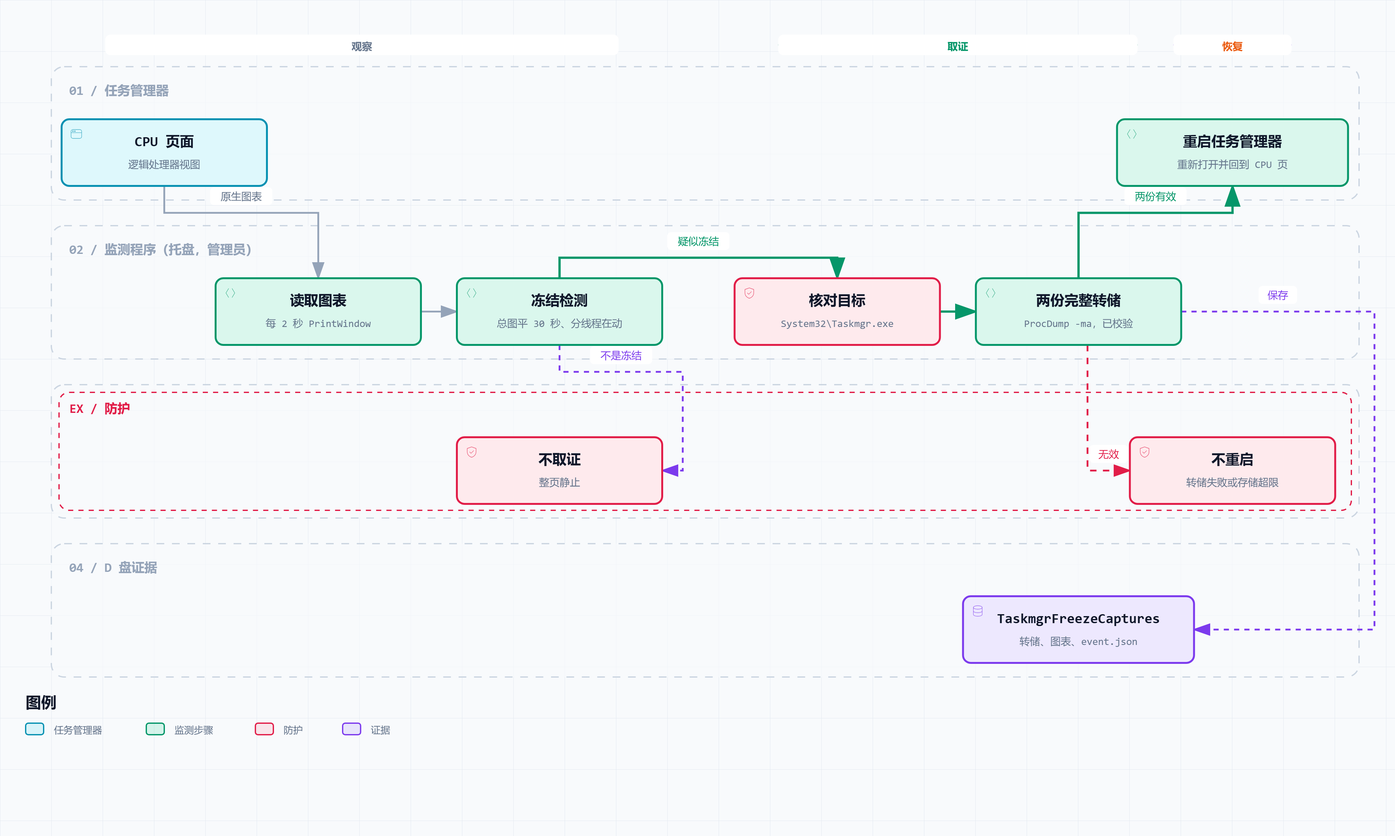
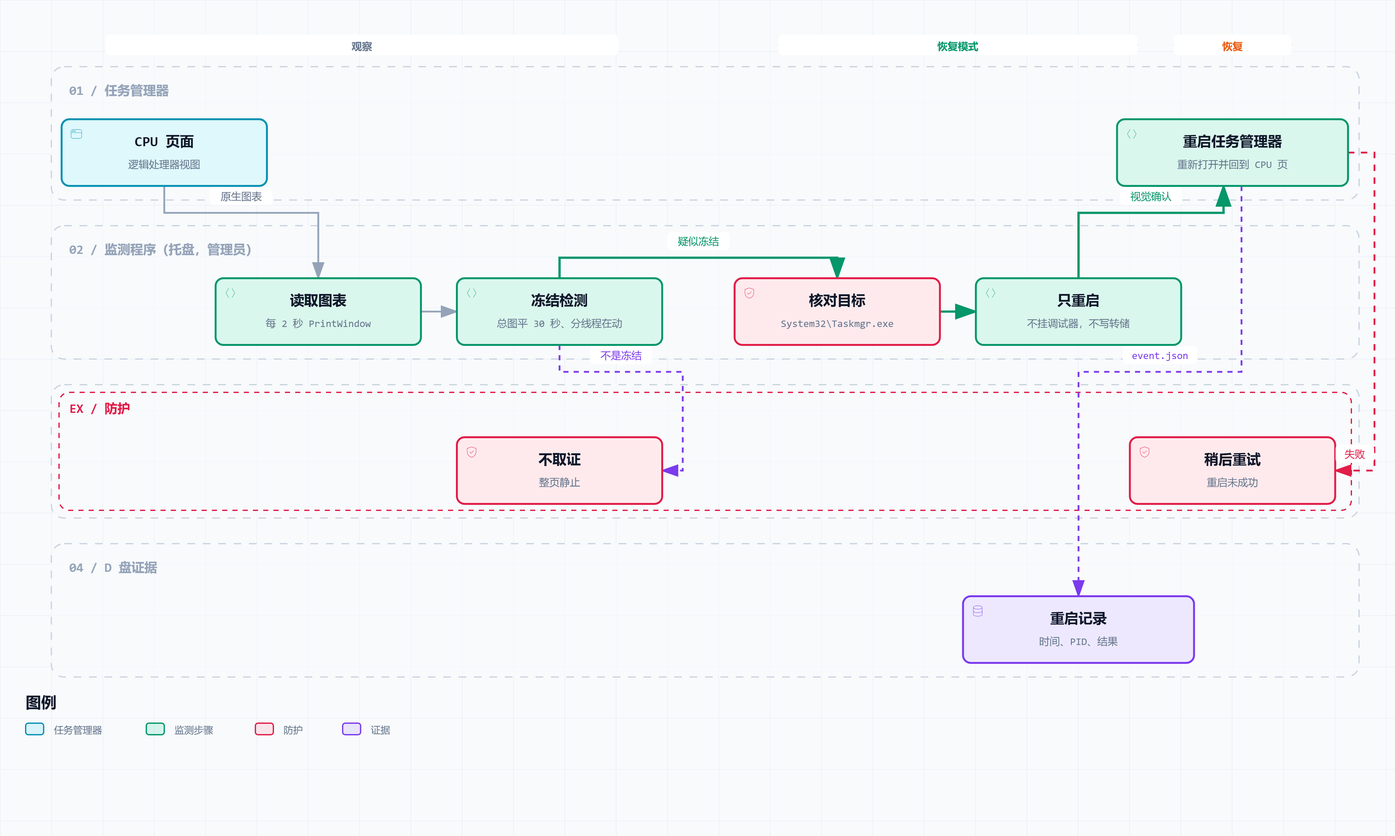
feat: rank thread bursts and close live freeze investigation
Replace broad ETW candidates with a bounded 10 ms Top 3 thread-start ranking. Document the evidence closeout and restart-only daily workflow.

diff --git a/tools/correlate-process-trace.py b/tools/correlate-process-trace.py
@@ -1,8 +1,10 @@
-"""List temporal candidates, never a verdict, using raw ETW QPC and query receipts."""
+"""Rank the top three thread creators before an abnormal query receipt (not causality)."""
 import argparse
+import bisect
 import collections
 import csv
 import json
+import math
 import re
 import xml.etree.ElementTree as ET
 from datetime import datetime, timezone
@@ -107,15 +109,21 @@ def identities(events,baseline,header):
     return events
 
 
-def correlate(folder,margin_ms=100):
+def correlate(folder,lookback_ms=10,output=None):
+    if not math.isfinite(lookback_ms) or not 0<lookback_ms<=10:
+        raise ValueError('lookback-ms must be in (0,10]')
+    folder = Path(folder)
+    output = Path(output) if output is not None else folder
     trace = folder/'process-trace'
     events,header,errors = decode(trace/'events.xml')
     origin = json.loads((folder/'origin.json').read_text(encoding='utf-8'))
-    if origin.get('qpc_frequency')!=header['PerfFreq']:
+    if header['PerfFreq']<=0 or origin.get('qpc_frequency')!=header['PerfFreq']:
         raise ValueError('query/ETW clock frequencies do not match')
     session = json.loads((trace/'session.json').read_text(encoding='utf-8'))
     if session.get('status')!='stopped' or session.get('decode_exit')!=0:
         errors.append('ETW stop/decode not verified')
+    if session.get('qpc_frequency')!=header['PerfFreq']:
+        errors.append('session/ETW clock frequencies do not match')
     baseline = json.loads((trace/'baseline.json').read_text(encoding='utf-8-sig'))
     # With loss/overwriting/decode gaps, a stale baseline PID may appear alive
     # after unobserved reuse. Do not emit named candidates from incomplete data.
@@ -123,45 +131,70 @@ def correlate(folder,margin_ms=100):
         events = identities(events,baseline,header)
     queries_path = folder/'query-trace.jsonl'
     queries = [json.loads(s) for s in queries_path.read_text(encoding='utf-8').splitlines()] if queries_path.exists() else []
-    rows,windows = [],[]
+    rows,windows,skipped = [],[],[]
     freq = header['PerfFreq']
-    margin = int(freq*margin_ms/1000)
+    lookback = int(freq*lookback_ms/1000)
+    if lookback<1:
+        raise ValueError('lookback is below one QPC tick')
+    # Thread creation, not net count or every process event, is the ranking key.
+    starts = [e for e in events if e['kind']=='thread_start']
+    clocks = [e['qpc'] for e in starts]
     for q in queries:
         if errors:
             break
         begin,end = q.get('entry_received_qpc'),q.get('return_received_qpc')
-        if not begin or not end or not q.get('query','').startswith(origin['instance']+':'):
-            errors.append('query missing clock or instance identity')
+        calls = q.get('calls',[])
+        # The final NtQSI return marker is closer to the query than the wrapper
+        # return. Do not silently fall back to wall time or claim target timing.
+        anchor = calls[-1].get('received_qpc') if calls else None
+        reason = None
+        if not all(isinstance(t,int) and t>0 for t in (begin,anchor,end)) or not q.get('query','').startswith(origin['instance']+':'):
+            reason = 'query missing QPC receipt or instance identity'
+        elif not begin<=anchor<=end:
+            reason = 'query receipt clocks out of order'
+        elif min(begin,anchor-lookback)<session['baseline_end_qpc'] or end>session['stopped_qpc']:
+            reason = 'query/lookback outside baseline-to-stop coverage'
+        if reason:
+            skipped.append({'query':q.get('query'),'reason':reason})
             continue
-        if begin<session['baseline_end_qpc'] or end>session['stopped_qpc']:
-            errors.append('query outside baseline-to-stop coverage')
-            continue
-        selected = [e for e in events if begin-margin<=e['qpc']<=end+margin]
-        windows.append({'query':q['query'],'kind':q['kind'],'receipt_begin_qpc':begin,'receipt_end_qpc':end,
-                        'margin_ms':margin_ms,'events':selected,'calls':q['calls']})
+        lower = anchor-lookback
+        selected = starts[bisect.bisect_left(clocks,lower):bisect.bisect_right(clocks,anchor)]
         groups = collections.defaultdict(list)
         for e in selected:
-            groups[e['identity']].append(e)
-        for identity,group in groups.items():
+            # Unknown lifetimes must not collapse reused PIDs into one creator.
+            if e['process'] is not None:
+                groups[(e['identity'],e['process'].get('image') or 'unknown')].append(e)
+        ranked = sorted(groups.items(),key=lambda pair:(-len(pair[1]),pair[0]))[:3]
+        top = []
+        for rank,((identity,image),group) in enumerate(ranked,1):
             p = group[0]['process'] or {}
-            counts = collections.Counter(e['kind'] for e in group)
-            inside = sum(begin<=e['qpc']<=end for e in group)
-            rows.append({'query':q['query'],'query_kind':q['kind'],'identity':identity,
-                         'image':p.get('image') or 'unknown','parent_pid':p.get('parent_pid'),
-                         'process_start':counts['process_start'],'process_stop':counts['process_stop'],
-                         'thread_start':counts['thread_start'],'thread_stop':counts['thread_stop'],
-                         'inside_receipt_window':inside,'margin_only':len(group)-inside,
-                         'net_threads':counts['thread_start']-counts['thread_stop'],
-                         'assessment':'temporal candidate only'})
+            row = {'query':q['query'],'query_kind':q['kind'],'rank':rank,'identity':identity,
+                   'pid':group[0]['pid'],'create_time':p['created'],'image':image,
+                   'parent_pid':p.get('parent_pid'),'thread_start_count':len(group),
+                   'thread_starts_per_second':len(group)*freq/lookback,
+                   'lookback_ms':lookback*1000/freq,'window_begin_qpc':lower,'anchor_qpc':anchor,
+                   'first_start_qpc':group[0]['qpc'],'last_start_qpc':group[-1]['qpc'],
+                   'assessment':'temporal ranking only; not a fault threshold'}
+            rows.append(row)
+            top.append(row)
+        windows.append({'query':q['query'],'kind':q['kind'],'receipt_begin_qpc':begin,'receipt_end_qpc':end,
+                        'window_begin_qpc':lower,'anchor_qpc':anchor,'lookback_ms':lookback*1000/freq,
+                        'thread_start_count':len(selected),
+                        'unresolved_thread_starts':sum(e['process'] is None for e in selected),
+                        'ranked_processes_available':len(groups),'top':top,'calls':calls})
     result = {'instance':origin['instance'],'etw_events':len(events),'queries':len(windows),
-              'abnormal_queries_seen':len(queries),
+              'abnormal_queries_seen':len(queries),'query_kinds':dict(collections.Counter(q['kind'] for q in queries)),
+              'lookback_ms':lookback_ms,'top_limit':3,'ranking_rows':len(rows),'skipped_queries':skipped,
               'errors':sorted(set(errors)),'trace_header':header,'attribution':'unproven',
-              'clock_limit':'Query times are debugger-host receipts; latency has no measured upper bound. Margin is a search heuristic, not an error bound. Coincidence and net growth do not prove kernel buffer contribution.',
+              'anchor':'final NtQSI return marker received by debugger host',
+              'clock_limit':'Query times are debugger-host receipts; latency has no measured upper bound. The inclusive lookback window is a search heuristic, not microsecond target timing. Thread starts do not prove snapshot growth, kernel buffer contribution or a universal churn threshold.',
               'windows':windows}
-    (folder/'process-correlation.json').write_text(json.dumps(result,indent=2)+'\n',encoding='utf-8')
-    fields = ['query','query_kind','identity','image','parent_pid','process_start','process_stop',
-              'thread_start','thread_stop','inside_receipt_window','margin_only','net_threads','assessment']
-    with (folder/'process-candidates.tsv').open('w',encoding='utf-8',newline='') as f:
+    output.mkdir(parents=True,exist_ok=True)
+    (output/'thread-top-delta.json').write_text(json.dumps(result,indent=2)+'\n',encoding='utf-8')
+    fields = ['query','query_kind','rank','identity','pid','create_time','image','parent_pid',
+              'thread_start_count','thread_starts_per_second','lookback_ms','window_begin_qpc','anchor_qpc',
+              'first_start_qpc','last_start_qpc','assessment']
+    with (output/'thread-top-delta.tsv').open('w',encoding='utf-8',newline='') as f:
         writer = csv.DictWriter(f,fields,delimiter='\t')
         writer.writeheader()
         writer.writerows(rows)
@@ -171,8 +204,12 @@ def correlate(folder,margin_ms=100):
 if __name__=='__main__':
     parser = argparse.ArgumentParser(description=__doc__)
     parser.add_argument('folder',type=Path)
-    parser.add_argument('--margin-ms',type=float,default=100)
+    parser.add_argument('--lookback-ms',type=float,default=10,help='inclusive lookback before final NtQSI receipt, (0,10] ms')
+    parser.add_argument('--output',type=Path,help='write new Top Delta reports here, preserving historical evidence')
     args = parser.parse_args()
-    if not 0<=args.margin_ms<=1000:
-        parser.error('margin-ms must be in [0,1000]')
-    print(json.dumps(correlate(args.folder,args.margin_ms),indent=2))
+    if not math.isfinite(args.lookback_ms) or not 0<args.lookback_ms<=10:
+        parser.error('lookback-ms must be in (0,10]')
+    summary = correlate(args.folder,args.lookback_ms,args.output)
+    print(json.dumps(summary,indent=2))
+    if summary['errors'] or summary['skipped_queries']:
+        raise SystemExit(2)

diff --git a/tests/test_process_trace.py b/tests/test_process_trace.py
@@ -67,29 +67,98 @@ class ProcessTraceTests(unittest.TestCase):
         self.assertIn('ETW lost events or buffers',errors)
         self.assertIn('circular trace may have overwritten earlier buffers',errors)
 
-    def test_margin_is_not_inside_window_or_attribution(self):
+    def rank_fixture(self, folder):
+        trace=folder/'process-trace';trace.mkdir()
+        (folder/'origin.json').write_text(json.dumps({'instance':'I','qpc_frequency':1000}))
+        (trace/'session.json').write_text(json.dumps({'status':'stopped','decode_exit':0,'qpc_frequency':1000,
+            'baseline_end_qpc':1,'stopped_qpc':1000}))
+        (trace/'baseline.json').write_text('[]')
+        query={'query':'I:Q1','kind':'exhausted','calls':[{'received_qpc':110}],
+               'entry_received_qpc':95,'return_received_qpc':120}
+        (folder/'query-trace.jsonl').write_text(json.dumps(query)+'\n')
+        return trace,query
+
+    def ranked_event(self,pid,q,created=1,kind='thread_start'):
+        return {'qpc':q,'kind':kind,'pid':pid,'identity':f'{pid}:{created}',
+                'process':{'created':created,'image':f'{pid}.exe','parent_pid':7}}
+
+    def test_top_three_starts_in_inclusive_lookback_not_after_or_net_growth(self):
         with tempfile.TemporaryDirectory() as directory:
-            folder=Path(directory); trace=folder/'process-trace';trace.mkdir()
-            (folder/'origin.json').write_text(json.dumps({'instance':'I','qpc_frequency':1000}))
-            (trace/'session.json').write_text(json.dumps({'status':'stopped','decode_exit':0,'baseline_end_qpc':0,'stopped_qpc':1000}))
-            (trace/'baseline.json').write_text('[]')
-            (folder/'query-trace.jsonl').write_text(json.dumps({'query':'I:Q1','kind':'exhausted','calls':[],
-                'entry_received_qpc':100,'return_received_qpc':120})+'\n')
-            event={'qpc':95,'kind':'thread_start','pid':42,'identity':'42:unresolved','process':None}
-            h={'PerfFreq':1000}
-            with patch.object(C,'decode',return_value=([event],h,[])),patch.object(C,'identities',side_effect=lambda e,*_:e):
-                result=C.correlate(folder,10)
+            folder=Path(directory);self.rank_fixture(folder)
+            events=[self.ranked_event(42,q) for q in (99,100,105,110,111)]
+            events += [self.ranked_event(42,107,kind='thread_stop')]
+            events += [self.ranked_event(pid,106) for pid in (2,2,3,3,4,4)]
+            events += [self.ranked_event(5,107,kind='process_start')]
+            unknown=self.ranked_event(9,108);unknown.update(identity='9:unresolved',process=None)
+            events.append(unknown);events.sort(key=lambda e:e['qpc'])
+            old=folder/'process-candidates.tsv';old.write_text('historical report')
+            out=folder/'new-report'
+            with patch.object(C,'decode',return_value=(events,{'PerfFreq':1000},[])), \
+                 patch.object(C,'identities',side_effect=lambda e,*_:e):
+                result=C.correlate(folder,10,out)
+            report=json.loads((out/'thread-top-delta.json').read_text())
+            window=report['windows'][0];top=window['top']
+            self.assertEqual([r['pid'] for r in top],[42,2,3])
+            self.assertEqual([r['thread_start_count'] for r in top],[3,2,2])
+            self.assertEqual(top[0]['thread_starts_per_second'],300)
+            self.assertEqual(window['unresolved_thread_starts'],1)
+            self.assertEqual(window['thread_start_count'],10)
+            self.assertEqual(window['ranked_processes_available'],4)
             self.assertEqual(result['attribution'],'unproven')
-            import csv
-            with (folder/'process-candidates.tsv').open() as f:
-                row=next(csv.DictReader(f,delimiter='\t'))
-            self.assertEqual(row['inside_receipt_window'],'0')
-            self.assertEqual(row['margin_only'],'1')
-            with patch.object(C,'decode',return_value=([event],h,['ETW lost events or buffers'])):
+            self.assertEqual(old.read_text(),'historical report')
+            self.assertFalse((folder/'thread-top-delta.json').exists())
+
+    def test_ranking_keeps_reused_pid_instances_separate(self):
+        with tempfile.TemporaryDirectory() as directory:
+            folder=Path(directory);self.rank_fixture(folder)
+            events=[self.ranked_event(42,101,1),self.ranked_event(42,109,2)]
+            with patch.object(C,'decode',return_value=(events,{'PerfFreq':1000},[])), \
+                 patch.object(C,'identities',side_effect=lambda e,*_:e):
+                C.correlate(folder)
+            report=json.loads((folder/'thread-top-delta.json').read_text())
+            self.assertEqual([r['identity'] for r in report['windows'][0]['top']],['42:1','42:2'])
+
+    def test_missing_query_clock_does_not_drop_later_valid_query(self):
+        with tempfile.TemporaryDirectory() as directory:
+            folder=Path(directory);_,query=self.rank_fixture(folder)
+            bad={**query,'query':'I:Q0','calls':[]}
+            (folder/'query-trace.jsonl').write_text(json.dumps(bad)+'\n'+json.dumps(query)+'\n')
+            with patch.object(C,'decode',return_value=([],{'PerfFreq':1000},[])), \
+                 patch.object(C,'identities',return_value=[]):
+                result=C.correlate(folder)
+            self.assertEqual(result['queries'],1)
+            self.assertEqual(result['ranking_rows'],0)
+            self.assertEqual(len(result['skipped_queries']),1)
+
+    def test_lookback_requires_full_coverage_and_valid_receipt_order(self):
+        for baseline,anchor in ((101,110),(1,94),(1,121)):
+            with self.subTest(baseline=baseline,anchor=anchor),tempfile.TemporaryDirectory() as directory:
+                folder=Path(directory);trace,query=self.rank_fixture(folder)
+                session=json.loads((trace/'session.json').read_text());session['baseline_end_qpc']=baseline
+                (trace/'session.json').write_text(json.dumps(session))
+                query['calls'][-1]['received_qpc']=anchor
+                (folder/'query-trace.jsonl').write_text(json.dumps(query)+'\n')
+                with patch.object(C,'decode',return_value=([],{'PerfFreq':1000},[])), \
+                     patch.object(C,'identities',return_value=[]):
+                    result=C.correlate(folder)
+                self.assertEqual(result['queries'],0)
+                self.assertEqual(len(result['skipped_queries']),1)
+
+    def test_loss_suppresses_all_named_rankings(self):
+        with tempfile.TemporaryDirectory() as directory:
+            folder=Path(directory);self.rank_fixture(folder)
+            event=self.ranked_event(42,105)
+            with patch.object(C,'decode',return_value=([event],{'PerfFreq':1000},['ETW lost events or buffers'])):
                 lost=C.correlate(folder,10)
             self.assertEqual(lost['queries'],0)
-            with (folder/'process-candidates.tsv').open() as f:
+            import csv
+            with (folder/'thread-top-delta.tsv').open() as f:
                 self.assertEqual(list(csv.DictReader(f,delimiter='\t')),[])
+
+    def test_invalid_lookback_rejected_before_reading(self):
+        for lookback in (0,-1,10.01,float('nan'),float('inf')):
+            with self.subTest(lookback=lookback),self.assertRaises(ValueError):
+                C.correlate(Path('unused'),lookback)
 
     def test_debugger_cleanup_error_still_stops_owned_etw(self):
         spec=importlib.util.spec_from_file_location('capture',ROOT/'tools/capture-address-chain.py')

diff --git a/README.md b/README.md
@@ -15,10 +15,17 @@ The English version governs.
 Personal Windows diagnostic extension of [ScreenWatcher](https://github.com/bigzeze/ScreenWatcher), based on commit `e10fcd2`. The original MIT license, source and icon attribution are retained. The automatic native chart capture, detector and dump workflow were added with Codex as an AI collaborator.
 The original upstream README is kept unchanged as [`UPSTREAM-README.md`](UPSTREAM-README.md).
 
+## Current operation and investigation closure (2026-10-13)
+
+The confirmed retry-count defect in the investigated DLL build is ready for engineering escalation. The three evidence layers are binary control flow, execution of the original native function, and historical aggregation/frozen-state dumps. This closes the local defect investigation; the same-incident buffer-to-freeze address lineage remains unobserved. It is not a Microsoft confirmation or a Windows fix. Live address-chain collection is retired for this investigation; the diagnostic tools and older instructions below are retained for reproducibility, not as a request to resume collection.
+
+This workstation now uses the saved **Restart only, no evidence** preference with `Start.cmd`: after 30 seconds of a flat total curve while logical graphs move, restart Task Manager and restore its CPU page. No ProcDump/cdb origin monitor is attached in this mode. Autostart is unchanged. The current policy supersedes the historical capture-mode and validation descriptions below; the program still supports evidence mode if deliberately selected.
+
 <picture>
   <source media="(prefers-color-scheme: dark)" srcset="docs/diagrams/overview.en.dark.png">
-  <img alt="Workflow diagram: the watcher reads Task Manager's native CPU charts every 2 seconds; the freeze detector fires when the total curve stays flat for 30 seconds while the logical-processor curves keep moving, otherwise nothing is captured; after the target is confirmed as System32\Taskmgr.exe, ProcDump writes two full dumps to TaskmgrFreezeCaptures on D:; only when both dumps are valid is Task Manager restarted and returned to the CPU page, and a failed dump or the storage limit means no restart." src="docs/diagrams/overview.en.light.png">
+  <img alt="Current restart-only workflow: read native CPU charts every 2 seconds, confirm a flat total curve with moving logical graphs for 30 seconds, verify Taskmgr, restart it and restore the CPU page; retain an event.json receipt, without debugger attachment or dumps." src="docs/diagrams/overview.en.light.png">
 </picture>
+<!-- Historical capture-mode caption retained with the earlier operation records: Workflow diagram: the watcher reads Task Manager's native CPU charts every 2 seconds; the freeze detector fires when the total curve stays flat for 30 seconds while the logical-processor curves keep moving, otherwise nothing is captured; after the target is confirmed as System32\Taskmgr.exe, ProcDump writes two full dumps to TaskmgrFreezeCaptures on D:; only when both dumps are valid is Task Manager restarted and returned to the CPU page, and a failed dump or the storage limit means no restart. -->
 
 ## Operation
 
@@ -61,6 +68,8 @@ Each Task Manager instance gets one debugger. By default ProcDump waits for the 
 
 ## Address provenance capture (opt-in)
 
+Historical procedure, retired from the current investigation on 2026-10-13. Do not run another 20–60 minute session as part of this closeout.
+
 `tools/capture-address-chain.py --pid <current PID> --minutes 20 --output D:/TaskmgrFreezeCaptures/address-chain-<unique name>` runs with `.venv/Scripts/python.exe` in an administrator terminal. The output folder must be new and contain no spaces. It verifies the Taskmgr image, process creation time, DLL hash and breakpoint instructions, stops the existing watcher through `Stop.ps1`, and restores its previous mode only after the debugger has exited and detached. It refuses to stop an active dump. No saved preference, autostart or system setting is changed. Creating `stop.request` inside that capture folder requests an early graceful detach.
 
 An exhausted query receives an instance-specific query ID and a saved raw buffer. Only then are sparse address-conditioned breakpoints enabled: `ConvertFrom`, native copy/move/assignment entry and return, destructor/default construction, buffer disposal, cache swaps, vector publication and the exact Idle conflict branch at RVA `0x3E5CF`. The collector records completed source-to-destination operations and retires destroyed or overwritten addresses; equal PID/CreateTime fields alone never establish provenance. Unknown paths, malformed memory or exhausted bounds end that attempt as incomplete. Detailed tracing is limited to 120 seconds, 32 live tracked objects and 4,096 events; raw buffers to 8 MiB and the cdb log to 50 MiB. The overall capture defaults to 20 minutes (maximum 60).
@@ -70,6 +79,10 @@ At the precise conflict it saves a full dump and detaches using the existing two
 Run `tools/audit-address-chain.py <capture folder>` with Python to rebuild the address lineage from operations and lifetimes, check raw-buffer hashes and the conflict dump, and write `audit.json` and `address-chain.tsv`. `address-events.jsonl`, `query-trace.jsonl`, `cdb.log`, generated scripts and the binary buffers are the retained raw evidence. A successful address audit does not itself prove the update task stopped: independently inspect the conflict and post-freeze dumps. The tool deliberately keeps overall acceptance incomplete until that separate investigation is documented. Historical report packages are not changed automatically.
 
 ### Process and thread correlation
+
+Current offline analysis uses **Top Delta**: `tools/correlate-process-trace.py <capture folder> --lookback-ms 10 --output <new report folder>`. It writes `thread-top-delta.tsv` and `thread-top-delta.json`, with at most three process instances per abnormal query, ranked by **Thread Start Count** in the inclusive 0–10 ms window before the final NtQSI return marker is received. `--lookback-ms` accepts a positive value up to 10; rates are counts divided by that window. Each row retains PID, creation time, image path (or available name), query kind and raw QPC boundaries. Unresolved identities are counted separately, never combined into a named creator; event loss suppresses rankings and incomplete query coverage is reported. Historical reports are not overwritten.
+
+These are debugger-host receipt times with unbounded, unmeasured transport latency, not microsecond-accurate target execution times. Thread-start counts are neither net snapshot growth nor proof of responsibility, and no universal churn threshold is claimed. The 8 October trace replays to 12 ranked rows across 15 covered abnormal queries, all `third_success`; it contains no three-failure/S_OK query. No new live trace or stress test is required. The former `--margin-ms` interface and broad candidate output described below apply only to the historical analyser through 2026-10-08.
 
 Data loss or circular overwrite risk suppresses named candidate output. Failed session stop is retried three times; if all fail, stop only the session named in `process-trace/session.json` with `logman stop <saved session name> -ets` from an administrator terminal.
 
@@ -98,10 +111,17 @@ Sources: [Microsoft ProcDump documentation](https://learn.microsoft.com/en-us/sy
 这是个人 Windows 诊断工具，基于 [ScreenWatcher](https://github.com/bigzeze/ScreenWatcher) 的 `e10fcd2` 提交扩展。保留上游 MIT 许可、源码和图标归属。原生图表自动抓取、异常判定和转储流程由 Codex 作为 AI 协作贡献者参与实现。
 上游原 README 原样保留为 [`UPSTREAM-README.md`](UPSTREAM-README.md)。
 
+## 当前运行与调查结案（2026-10-13）
+
+所查 DLL 版本的重试计数缺陷已证实，可以提交工程升级处理。三层证据包括二进制控制流、原生函数机器码执行结果，以及历史聚合错误／冻结状态转储。本地缺陷调查至此结案；同一现场从缓冲区到冻结的完整地址来源仍未观测到。这不代表微软确认或 Windows 已修复。本次调查结束活体地址链采集；下方旧工具与说明仅为保留可复现性，不是继续采集的要求。
+
+本工作站现已保存「只重启，不取证」偏好，并用 `Start.cmd` 运行：总图平直且分线程图仍变化持续 30 秒后，重启任务管理器并恢复 CPU 页面。此模式不挂 ProcDump/cdb 首报监测，自启动设置不变。当前策略优先于下方保留的历史取证模式和验证记录；程序仍保留主动选择取证模式的能力。
+
 <picture>
   <source media="(prefers-color-scheme: dark)" srcset="docs/diagrams/overview.zh.dark.png">
-  <img alt="流程图：监测程序每 2 秒读取任务管理器的原生 CPU 图表；总图持续水平 30 秒且逻辑处理器曲线仍在变化时判为疑似冻结，否则不取证；核对目标确为 System32\Taskmgr.exe 后，ProcDump 把两份完整转储写入 D 盘 TaskmgrFreezeCaptures；两份都有效才重启任务管理器并回到 CPU 页，转储失败或存储超限则不重启。" src="docs/diagrams/overview.zh.light.png">
+  <img alt="当前只重启流程：每 2 秒读取原生 CPU 图表，总图平直且分线程图变化持续 30 秒后，核对 Taskmgr，重启并恢复 CPU 页面；仅保留 event.json 重启记录，不挂调试器、不写转储。" src="docs/diagrams/overview.zh.light.png">
 </picture>
+<!-- 历史取证模式图注，随旧运行记录保留：流程图：监测程序每 2 秒读取任务管理器的原生 CPU 图表；总图持续水平 30 秒且逻辑处理器曲线仍在变化时判为疑似冻结，否则不取证；核对目标确为 System32\Taskmgr.exe 后，ProcDump 把两份完整转储写入 D 盘 TaskmgrFreezeCaptures；两份都有效才重启任务管理器并回到 CPU 页，转储失败或存储超限则不重启。 -->
 
 ## 使用
 
@@ -144,6 +164,8 @@ D 盘剩余不足 10 GiB，或已有转储超过 50 GiB 时，暂停新增转储
 
 ## 地址来源采集（可选）
 
+以下为历史流程，自 2026-10-13 起退出本次调查。结案不再运行新的 20–60 分钟采集。
+
 在管理员终端用 `.venv/Scripts/python.exe` 运行 `tools/capture-address-chain.py --pid <当前 PID> --minutes 20 --output D:/TaskmgrFreezeCaptures/address-chain-<唯一名称>`。输出目录必须是新目录且不含空格。程序核对 Taskmgr 路径、进程创建时间、DLL 哈希和断点指令，通过 `Stop.ps1` 正常停止原监测器，仅在调试器退出并分离后恢复原模式；正在转储时拒绝停止。不改变保存的偏好、自启动或系统设置。在本次采集目录创建 `stop.request` 可请求提前正常分离。
 
 重试耗尽的查询获得包含实例身份的唯一编号，并保存原始缓冲区。此后才启用按地址筛选的断点：`ConvertFrom`、原生复制／移动／赋值的入口和返回、析构／默认构造、缓冲区释放、缓存交换、向量发布，以及 RVA `0x3E5CF` 的精确 Idle 冲突分支。采集器记录已完成的源到目标操作，并淘汰已析构或覆盖的地址；相同 PID/CreateTime 字段本身不构成来源证明。未知路径、异常内存或超出边界均记为本次未完成。密集跟踪上限为 120 秒、32 个存活跟踪对象和 4,096 个事件；原始缓冲区上限 8 MiB，cdb 日志上限 50 MiB。整体默认采集 20 分钟，最多 60 分钟。
@@ -153,6 +175,10 @@ D 盘剩余不足 10 GiB，或已有转储超过 50 GiB 时，暂停新增转储
 用 Python 运行 `tools/audit-address-chain.py <采集目录>`，根据操作及生命周期重建地址来源，核对原始缓冲区哈希与冲突转储，生成 `audit.json` 和 `address-chain.tsv`。`address-events.jsonl`、`query-trace.jsonl`、`cdb.log`、生成的脚本和二进制缓冲区保留为原始证据。地址核对通过本身不能证明更新任务已停止，还须独立检查冲突及冻结后转储；工具会把整体验收保持为未完成，直到另行记录该调查结果。不会自动改写历史报告包。
 
 ### 进程与线程关联
+
+当前离线分析采用 **Top Delta**，命令见英文区。新增 `thread-top-delta.tsv` 和 `thread-top-delta.json`：以宿主收到最后一次 NtQSI 返回标记为锚点，统计此前 0–10 毫秒闭区间内的**新建线程数**，每次异常最多输出三个进程实例。`--lookback-ms` 可设为大于零且不超过 10 的值；速率为计数除以窗口时长。每行保留 PID、创建时间、镜像路径（或可用名称）、查询类型和原始 QPC 边界。无法确认的身份单列数量，不合并成具名制造者；数据丢失时不排行，查询覆盖不全时明确报告。历史报告不覆盖。
+
+查询时间是调试器宿主的接收时间，传输延迟没有测得上界，不能当成目标执行的微秒级精确时间。新建线程数不等于快照净增长，也不能证明应用责任；不声明通用 Churn 临界速率。重算 10 月 8 日的记录得到 12 行排行、覆盖 15 次异常，全是 `third_success`，没有三次失败仍返回 S_OK 的查询。不需要新开活体跟踪或压测。下方保留的 `--margin-ms` 接口与全活动候选输出仅适用于截至 2026-10-08 的历史分析器。
 
 出现数据丢失或循环覆盖风险时，不输出具名候选。停止会话失败会重试至三次；若全部失败，应在管理员终端按英文部分命令，仅停止 `process-trace/session.json` 中记录的本任务会话。
 
